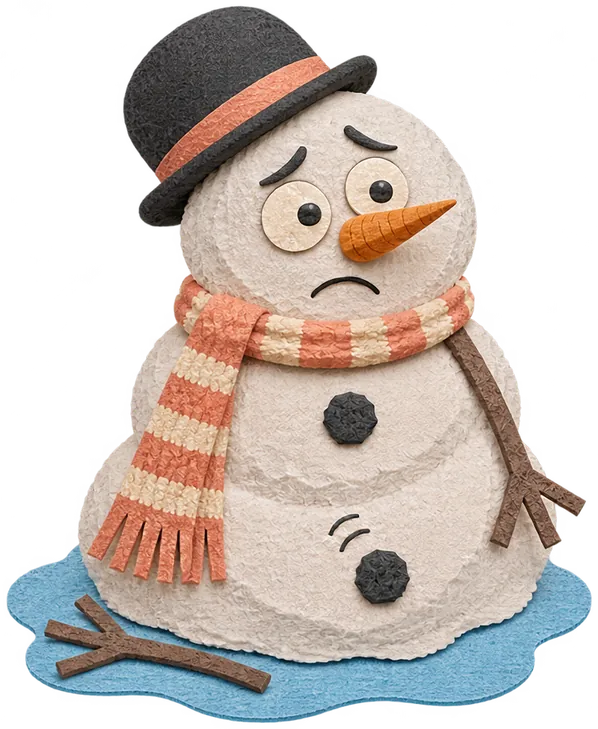
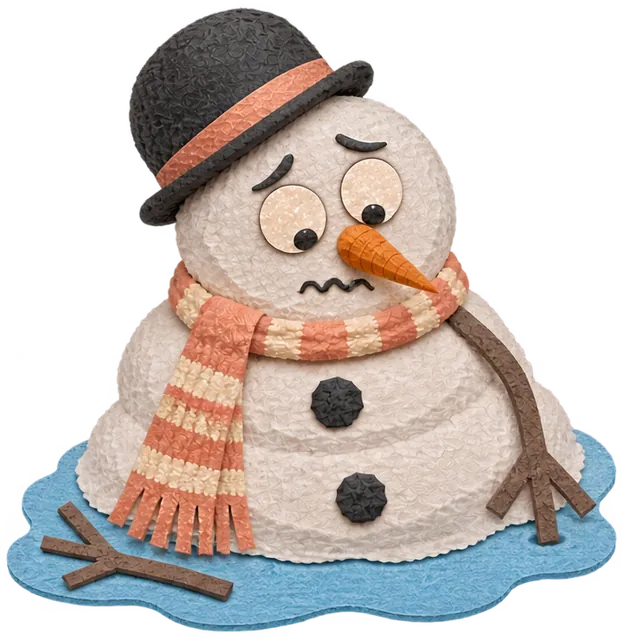
Redraw melt stage 4 so it steps between stages 3 and 5 (art round 4b)
The old stage 4 shared its face, body and scarf with the new stage 3. The
redraw is the middle figure of snowman-4-redraw.png: slumped, head tilted,
both arms down, 639 px tall between 755 and 528, with no size correction.

diff --git a/art/prompts/round-4b-stage-4-redraw.md b/art/prompts/round-4b-stage-4-redraw.md
@@ -37,3 +37,12 @@ Then:
 2. `npm run art`: `git status` should show only the sheet, `public/art/snowman-4.webp` and the manifest changed.
 3. Size check, which is what went wrong last time. The cutter scales a sheet by its widest hat row, so a hat that sits straight reads wider than a tilted one and the whole sheet is cut too small. Compare the stages by hat area and height with `node scripts/lineup.mjs docs/phase-2/stage-3-4-redraw.png snowman-2 snowman-3 snowman-4 snowman-5`. Stage 4 should come out at about 640 px tall (stage 3 is 755, stage 5 is 528, so the steps are about equal) with its hat the same size as its neighbours'; correct it with `TWEAK`, with a comment saying why.
 4. Look at stages 3, 4 and 5 in the game on Easy (8 misses allowed): `?a=Polar%20Bear&c=Animal&limit=8&g=QXZ`, `QXZJ` and `QXZJK` (3, 4 and 5 misses). Read every picture before showing Drew.
+
+## Result (2026-11-21)
+
+Run by Claude in Drew's Chrome with the prompt above unchanged, both references uploaded from `art/layers/originals/`, GPT Image 2.6 Sunburst on Unlimited (no credits). Three versions were generated and the second was kept as `snowman-4-redraw.png`.
+
+- All three cut into 3 pieces at `join: 10`.
+- Version 1's middle figure came out at 584 px tall with a hat a little small (area 13,400): a big drop after stage 3 (755) and a small one before stage 5 (528). Version 3 was like version 2, with the left and middle puddles almost touching. Neither is kept.
+- Version 2 needs no `TWEAK`: stage 4 is 639 px tall (stages 3 and 5 are 755 and 528, so the steps are 116 and 111), its hat's area is 14,440 against stage 3's 14,300, and the snow is 505 px across between 480 and 521.
+- Lineup of stages 2 to 6: `docs/phase-2/stage-4-redraw.png`. In the game on Easy at 3, 4 and 5 misses: `docs/phase-2/stage-3-4-5-in-game.png`.
